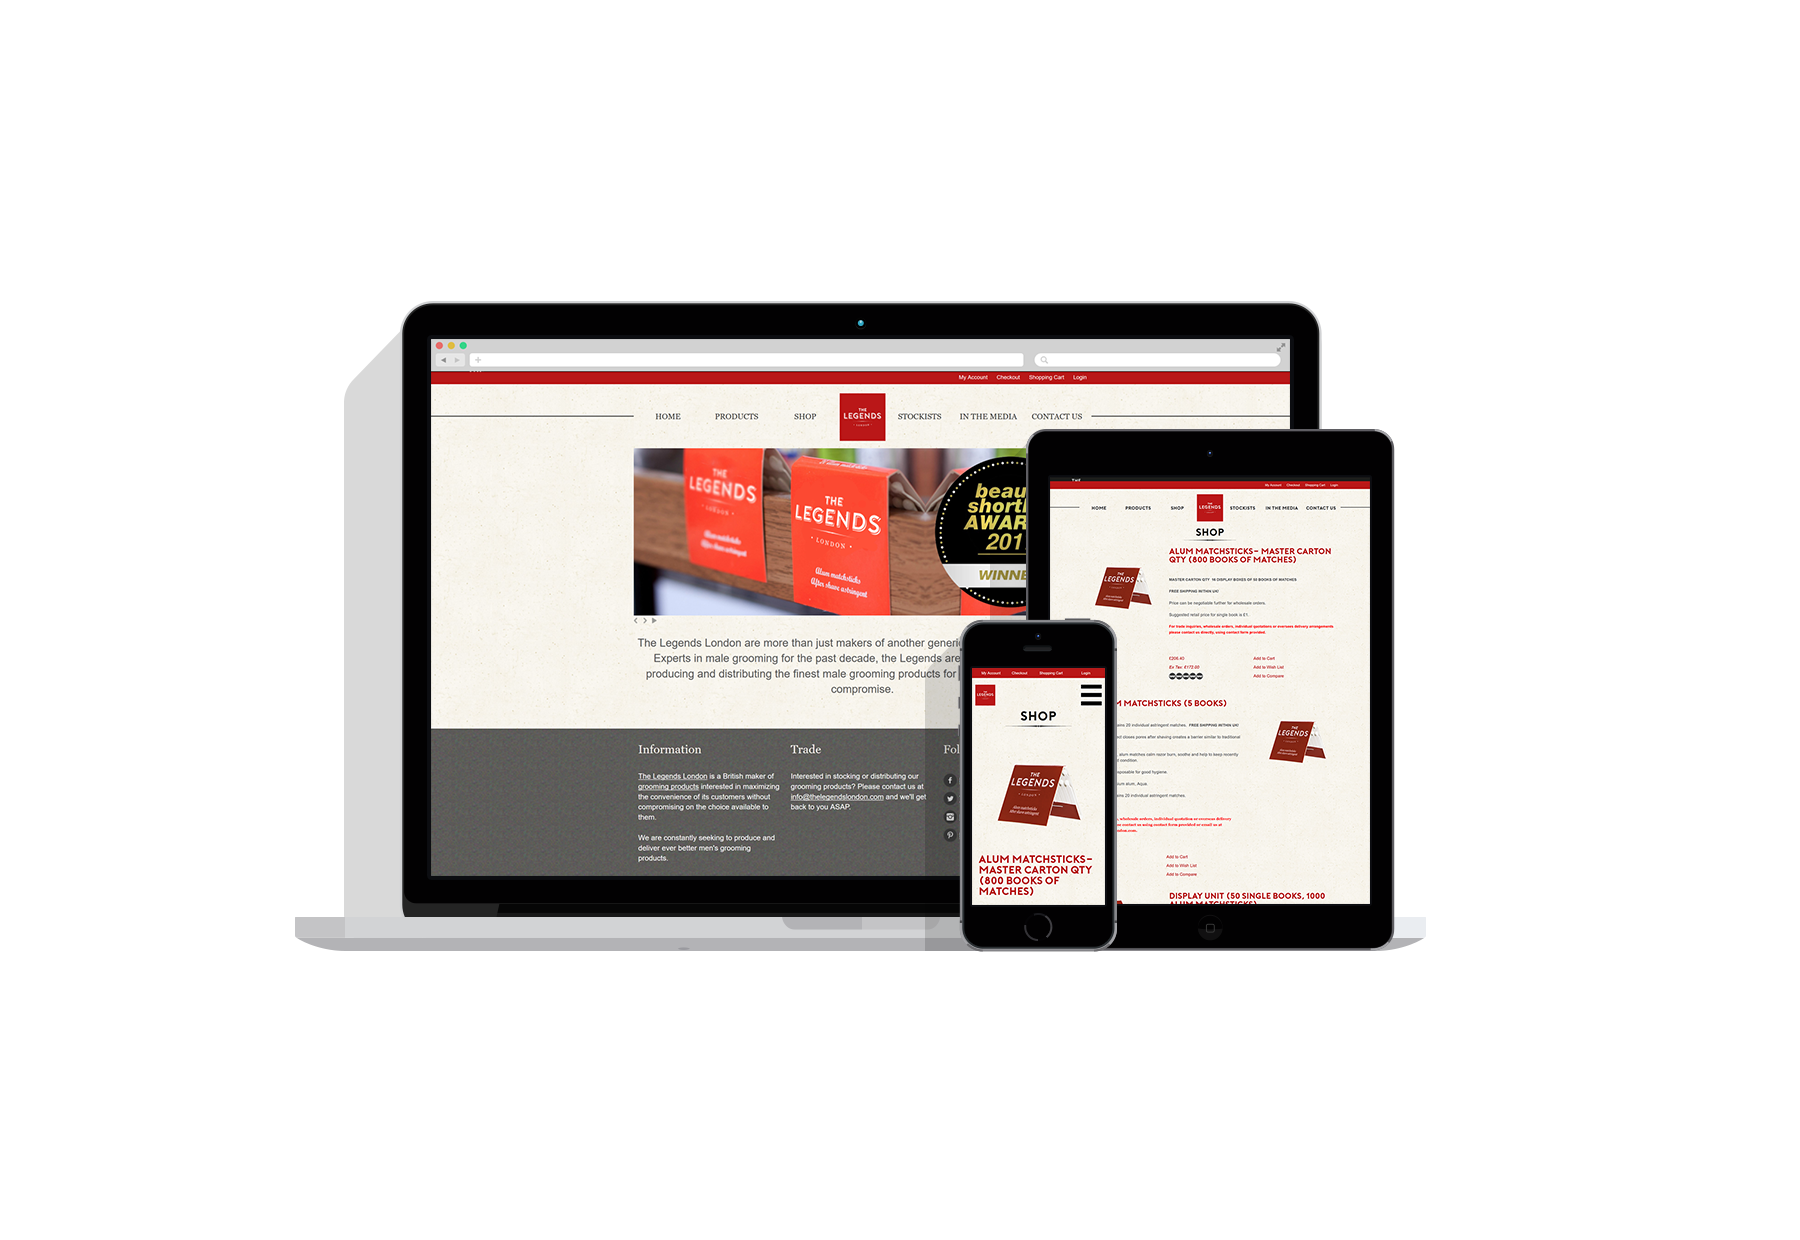
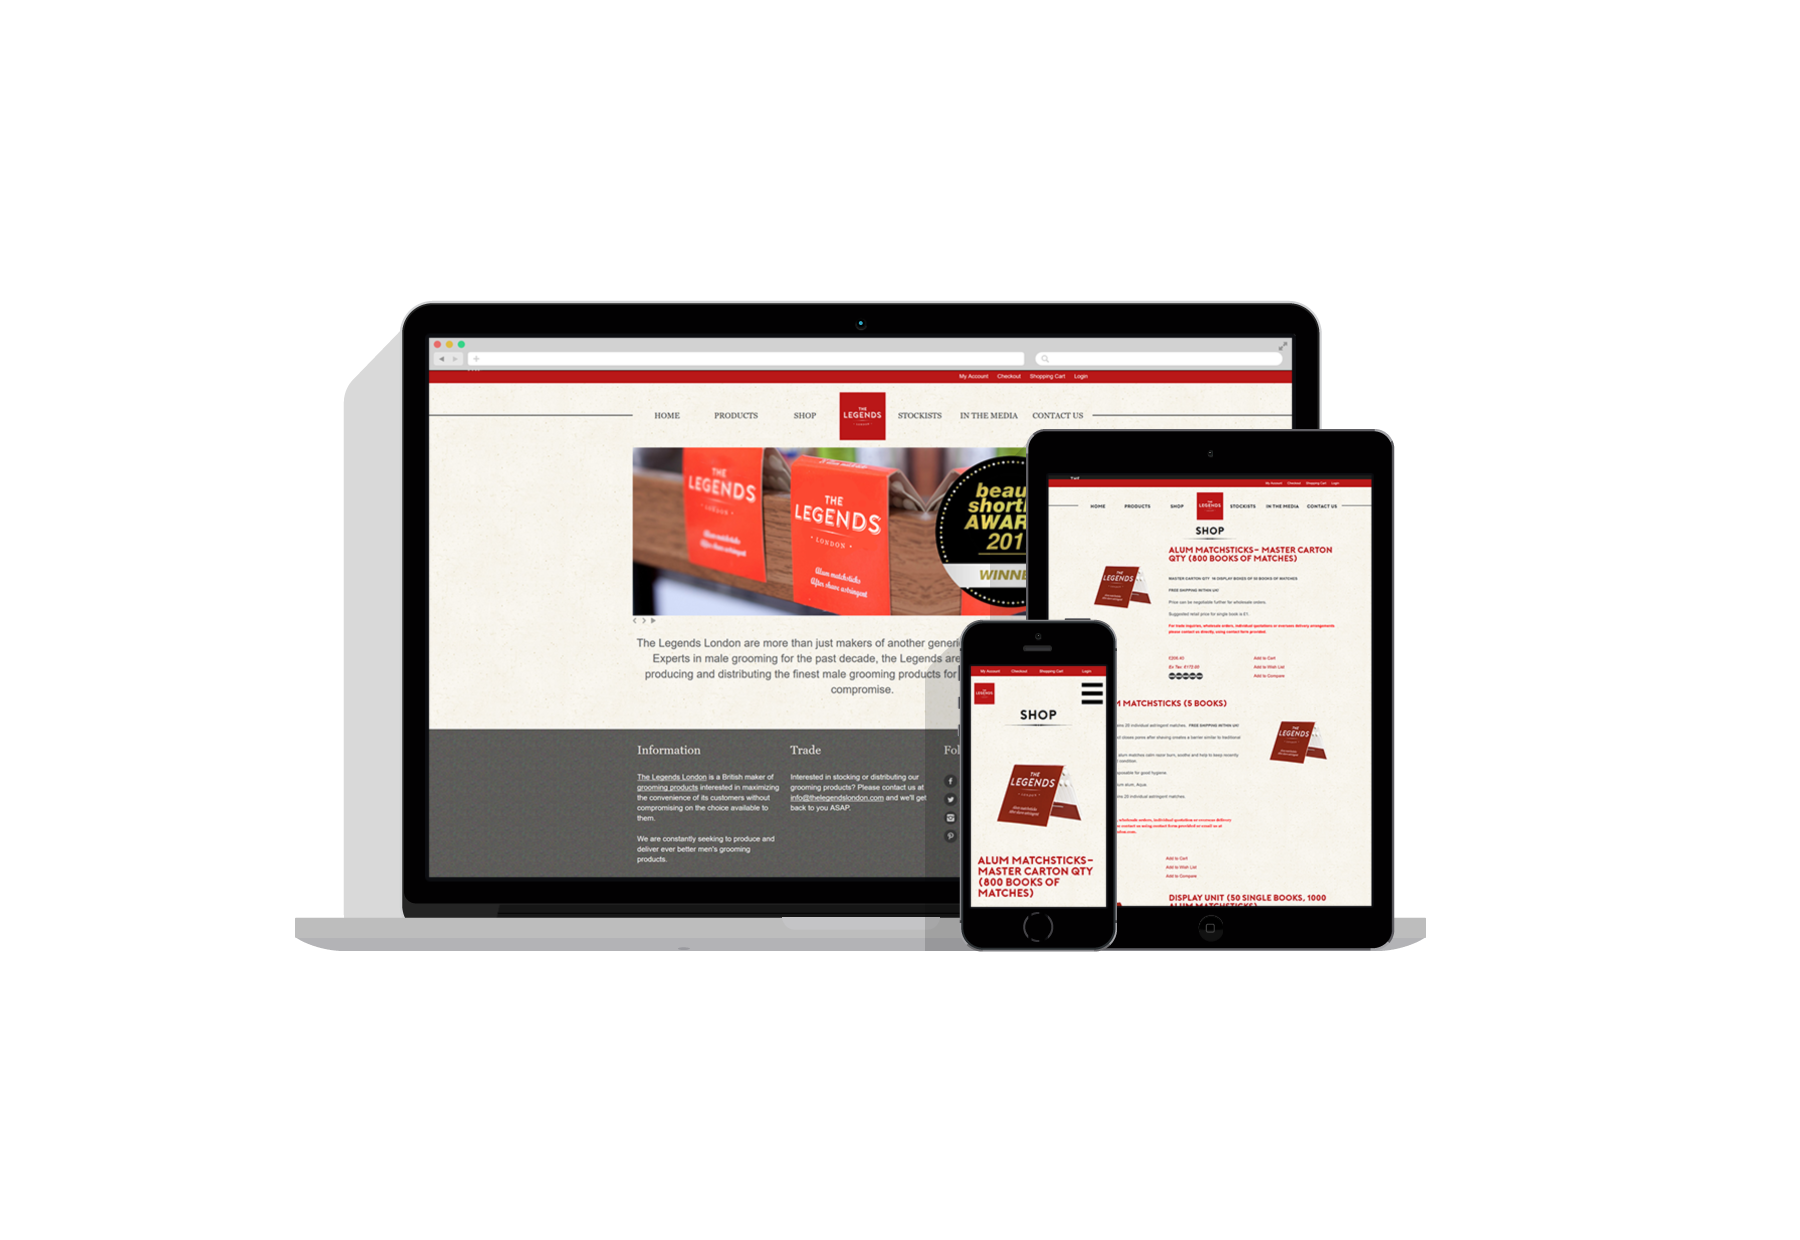
change from SVG to PNG

diff --git a/index.html b/index.html
@@ -35,17 +35,6 @@
 <script src="js/modernizr.custom.js"></script>
 <link rel="stylesheet" href="https://cdnjs.cloudflare.com/ajax/libs/fancybox/3.0.47/jquery.fancybox.min.css" />
 <script src="https://cdnjs.cloudflare.com/ajax/libs/fancybox/3.0.47/jquery.fancybox.min.js"></script>
-<!-- Hotjar Tracking Code for http://www.enderstudio.com -->
-<script>
-    (function(h,o,t,j,a,r){
-        h.hj=h.hj||function(){(h.hj.q=h.hj.q||[]).push(arguments)};
-        h._hjSettings={hjid:546738,hjsv:5};
-        a=o.getElementsByTagName('head')[0];
-        r=o.createElement('script');r.async=1;
-        r.src=t+h._hjSettings.hjid+j+h._hjSettings.hjsv;
-        a.appendChild(r);
-    })(window,document,'//static.hotjar.com/c/hotjar-','.js?sv=');
-</script>
 </head>
 <body class="loading">
     <section>
@@ -278,7 +267,7 @@
 				<div class="grid-100 mobile-grid-100 grid-parent rows row-style-1">
 					<div class="grid-50 mobile-grid-100 grid-parent row-cell portfolio-image london-app">
 						<div class="grid-100 mobile-grid-60 portfolio-button-position">
-							<a data-fancybox="legends-london" href="images/portfolio/london-app-all.svg" class="grid-40 push-30 mobile-grid-100 button button-portfolio">Zoom in <i class="fa fa-search" aria-hidden="true"></i></a>
+							<a data-fancybox="legends-london" href="images/portfolio/london-app-all.png" class="grid-40 push-30 mobile-grid-100 button button-portfolio">Zoom in <i class="fa fa-search" aria-hidden="true"></i></a>
 							<a href="images/portfolio/london-app/01_Home.jpg" data-fancybox="legends-london" style="display:none;">The Legends London</a>
 							<a href="images/portfolio/london-app/02_Products.jpg" data-fancybox="legends-london" style="display:none;">The Legends London</a>
 							<a href="images/portfolio/london-app/03_Product_Page.jpg" data-fancybox="legends-london" style="display:none;">The Legends London</a>
@@ -330,7 +319,7 @@
 				<div class="grid-100 mobile-grid-100 grid-parent rows row-style-1">
 					<div class="grid-50 mobile-grid-100 grid-parent row-cell portfolio-image cookbook">
 						<div class="grid-100 mobile-grid-60 portfolio-button-position">
-							<a href="images/portfolio/cookbook-all.svg" data-fancybox="cookbook" class="grid-40 push-30 mobile-grid-100 button button-portfolio">Zoom in <i class="fa fa-search" aria-hidden="true"></i></a>
+							<a href="images/portfolio/cookbook-all.png" data-fancybox="cookbook" class="grid-40 push-30 mobile-grid-100 button button-portfolio">Zoom in <i class="fa fa-search" aria-hidden="true"></i></a>
 							<a href="images/portfolio/cookbook/cookbook-page1.jpg" data-fancybox="cookbook" style="display:none;">Cook Book</a>
 							<a href="images/portfolio/cookbook/cookbook-homepage.jpg" data-fancybox="cookbook" style="display:none;">Cook Book</a>
 							<a href="images/portfolio/cookbook/cookbook-recipe.jpg" data-fancybox="cookbook" style="display:none;">Cook Book</a>

diff --git a/css/enderstudio.less b/css/enderstudio.less
@@ -566,19 +566,19 @@ a{
 	}
 }
 .blanka{ 
-	background: #fff url("../images/portfolio/blanka-all.svg") no-repeat center center;
+	background: #fff url("../images/portfolio/blanka-all.png") no-repeat center center;
 }
 .london{
-	background: #fff url("../images/portfolio/london-all.svg") no-repeat center center;
+	background: #fff url("../images/portfolio/london-all.png") no-repeat center center;
 }
 .cookbook{
-	background: #fff url("../images/portfolio/cookbook-all.svg") no-repeat center center;
+	background: #fff url("../images/portfolio/cookbook-all.png") no-repeat center center;
 }
 .legends{
-	background: #fff url("../images/portfolio/barbershop-all.svg") no-repeat center center;
+	background: #fff url("../images/portfolio/barbershop-all.png") no-repeat center center;
 }
 .london-app{
-	background: #fff url("../images/portfolio/london-app-all.svg") no-repeat center center;
+	background: #fff url("../images/portfolio/london-app-all.png") no-repeat center center;
 }
 .owl-theme {
 	& .owl-controls {
